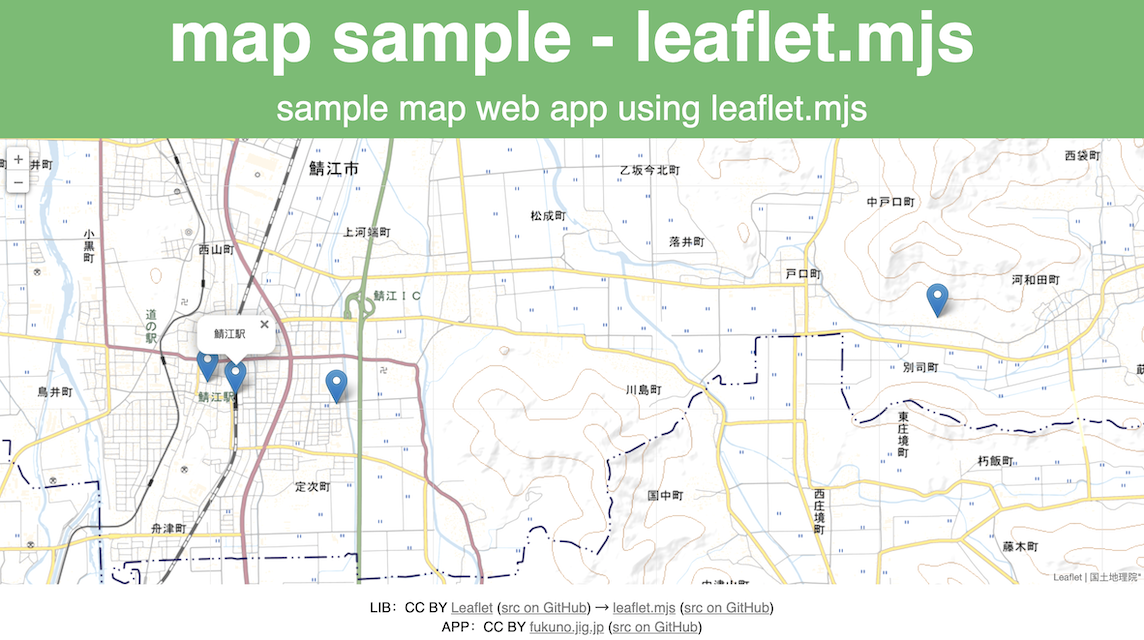
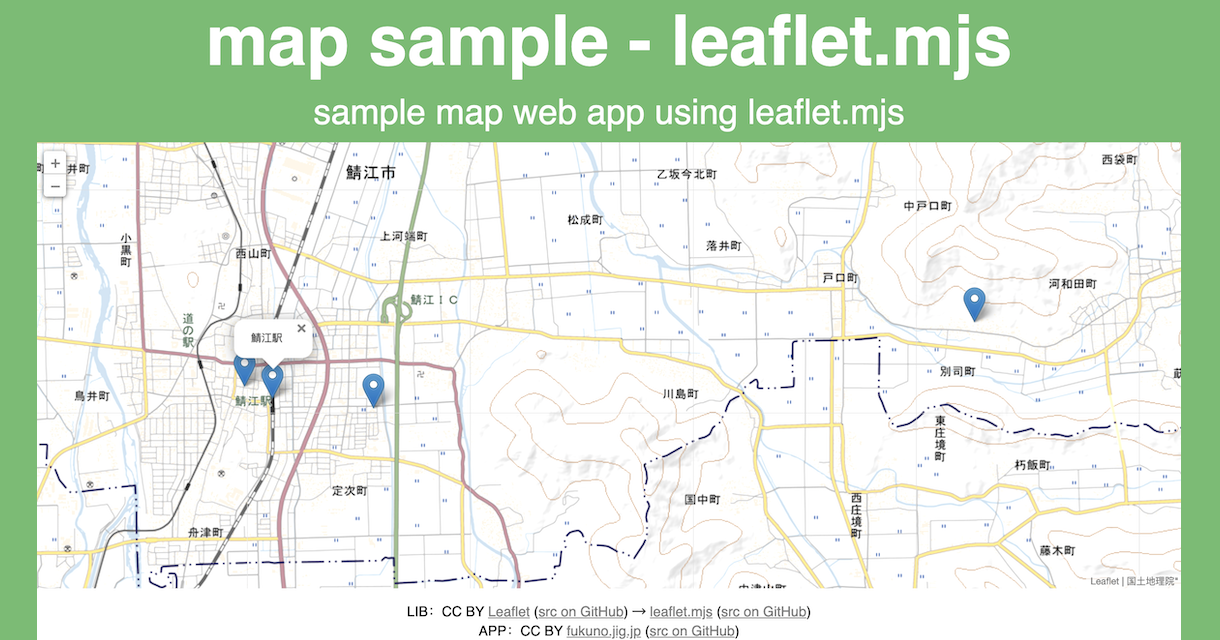
add map-gsi tag

Changed region(s): [[0.0, 0.0, 1.0, 1.0], [0.4283, 0.6875, 0.4589, 0.7188]]

diff --git a/map-gsi.html b/map-gsi.html
@@ -1,0 +1,31 @@
+<!DOCTYPE html><html><head><meta charset="utf-8"/>
+<meta name="viewport" content="width=device-width, initial-scale=1.0"/>
+<link rel="apple-touch-icon" href="map-ogp.png"/>
+<meta property="og:image" content="map-ogp.png"/>
+<meta name="format-detection" content="telephone=no"/>
+<title>map-gsi test - leaflet.mjs</title>
+<link rel="stylesheet" href="./map-gsi-test.css"></link>
+</head>
+<body>
+
+<h1 id=title>map-gsi test</h1><div class=subtitle>map-gsi WebComponent using leaflet.mjs</div>
+
+<script type='module' src="./map-gsi.mjs"></script>
+<map-gsi>
+  <map-gsi-icon ll="35.944535,136.186228" name="Hana道場"></map-gsi-icon>
+  <map-gsi-icon ll="35.943560,136.188917" name="鯖江駅"></map-gsi-icon>
+  <map-gsi-icon ll="35.942795,136.198881" name="めがね会館"></map-gsi-icon>
+  <map-gsi-icon ll="35.949658,136.258142" name="JAPAN CRAFT HOUSE"></map-gsi-icon>
+</map-gsi>
+
+<div id="link">
+  <div id="src">
+    <div>LIB：CC BY <a href='https://leafletjs.com/'>Leaflet</a> (<a href=https://github.com/Leaflet/Leaflet>src on GitHub</a>) → <a href=https://fukuno.jig.jp/2826>leaflet.mjs</a> (<a href=https://github.com/code4sabae/leaflet-mjs>src on GitHub</a>)</div>
+    <div>APP：CC BY <a href='https://fukuno.jig.jp/2826'>fukuno.jig.jp</a> (<a href=https://github.com/code4sabae/leaflet-mjs>src on GitHub</a>)</div>
+  </div>
+  <script type='module' src="./qr-code.mjs"></script>
+  <qr-code></qr-code>
+</div>
+
+</body>
+</html>

diff --git a/map-gsi-test.html b/map-gsi-test.html
@@ -1,0 +1,31 @@
+<!DOCTYPE html><html><head><meta charset="utf-8"/>
+<meta name="viewport" content="width=device-width, initial-scale=1.0"/>
+<link rel="apple-touch-icon" href="map-ogp.png"/>
+<meta property="og:image" content="map-ogp.png"/>
+<meta name="format-detection" content="telephone=no"/>
+<title>map-gsi sample - leaflet.mjs</title>
+<link rel="stylesheet" href="./map-gsi.css"></link>
+</head>
+<body>
+
+<h1 id=title>map-gsi sample</h1><div class=subtitle>map-gsi WebComponent using leaflet.mjs</div>
+
+<script type='module' src="./map-gsi.mjs"></script>
+<map-gsi>
+  <map-gsi-icon ll="35.944535,136.186228" name="Hana道場"></map-gsi-icon>
+  <map-gsi-icon ll="35.943560,136.188917" name="鯖江駅"></map-gsi-icon>
+  <map-gsi-icon ll="35.942795,136.198881" name="めがね会館"></map-gsi-icon>
+  <map-gsi-icon ll="35.949658,136.258142" name="JAPAN CRAFT HOUSE"></map-gsi-icon>
+</map-gsi>
+
+<div id="link">
+  <div id="src">
+    <div>LIB：CC BY <a href='https://leafletjs.com/'>Leaflet</a> (<a href=https://github.com/Leaflet/Leaflet>src on GitHub</a>) → <a href=https://fukuno.jig.jp/2826>leaflet.mjs</a> (<a href=https://github.com/code4sabae/leaflet-mjs>src on GitHub</a>)</div>
+    <div>APP：CC BY <a href='https://fukuno.jig.jp/2826'>fukuno.jig.jp</a> (<a href=https://github.com/code4sabae/leaflet-mjs>src on GitHub</a>)</div>
+  </div>
+  <script type='module' src="./qr-code.mjs"></script>
+  <qr-code></qr-code>
+</div>
+
+</body>
+</html>

diff --git a/map-gsi-test.css b/map-gsi-test.css
@@ -1,0 +1,33 @@
+body {
+	font-family: sans-serif;
+	margin: 0;
+  word-wrap: break-word;
+  --main-color: #66BE6C;
+  text-align: center;
+}
+h1 {
+	margin: 0;
+	padding: .0em;
+	background-color: var(--main-color);
+	color: white;
+	font-size: 6vw;
+	text-align: center;
+}
+h2 {
+  font-size: 3vw;
+}
+.subtitle {
+	text-align: center;
+	margin: 0;
+	padding: .3em;
+	background-color: var(--main-color);
+	color: white;
+	font-size: 3vw;
+}
+/* footer */
+#src {
+	margin: 1em 0 .5em 0;
+}
+a {
+	color: gray !important;
+}
